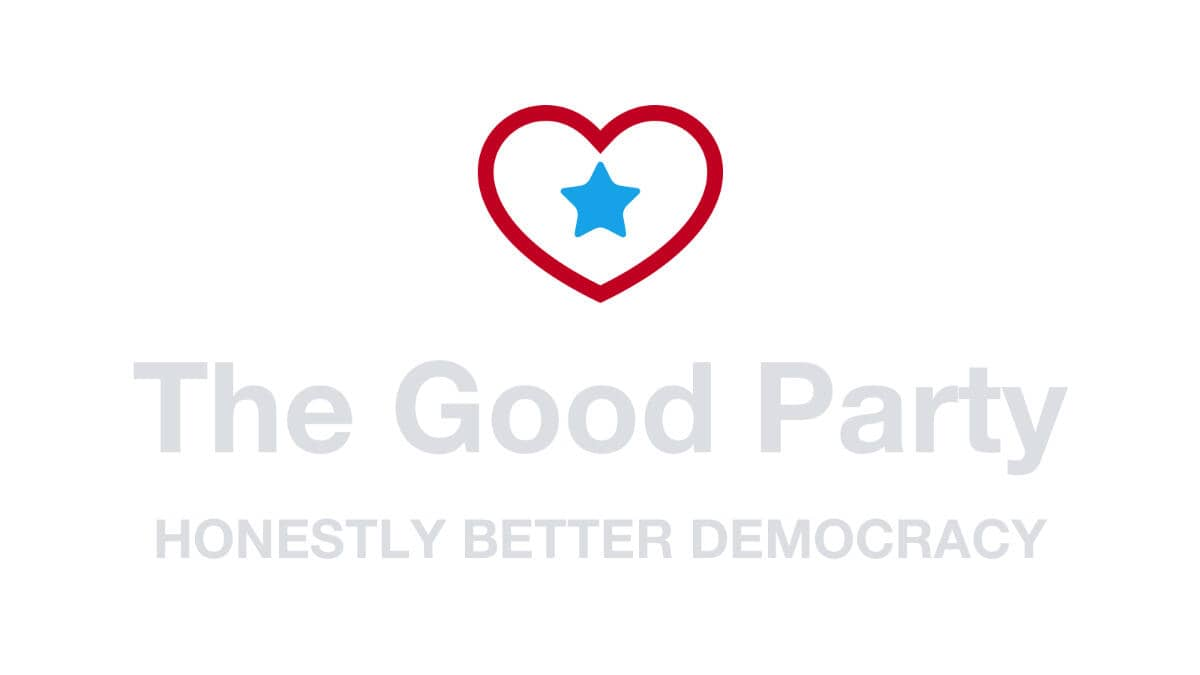
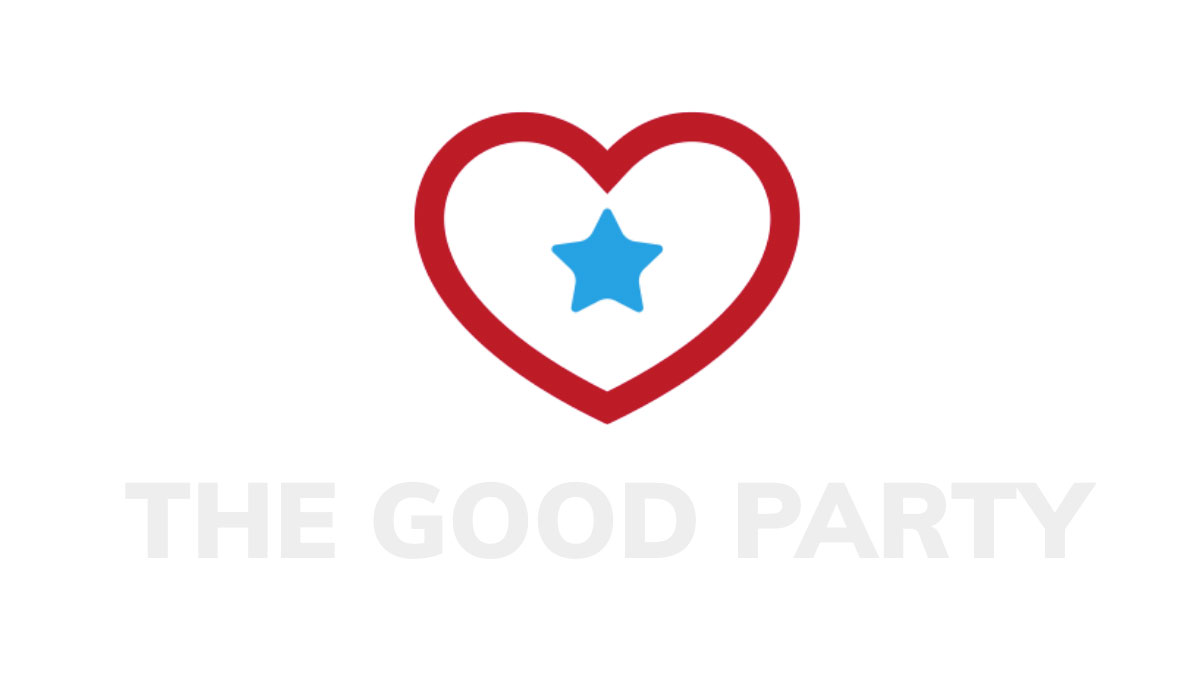
feat: 1.0.8.3 share image

diff --git a/app/index.html b/app/index.html
@@ -10,8 +10,8 @@
     <!-- Allow installing the app to the homescreen -->
     <meta name="mobile-web-app-capable" content="yes" />
 
-    <meta name="description" content="The Good Party" />
-    <meta property="og:site_name" content="The Good Party" />
+    <meta name="description" content="The Good Party is a way to take back our democracy from corrupt big-money politicians of both major parties, and to replace them with good capable indie or grass-roots candidates that wouldn't ordinarily have a chance." />
+    <meta property="og:site_name" content="THE GOOD PARTY" />
     <meta property="og:type" content="website" />
     <meta
       property="og:image"
@@ -22,7 +22,7 @@
     <meta name="theme-color" content="#ffffff" />
 
     <link rel="icon" href="/favicon.ico" />
-    <title>The Good Party</title>
+    <title>THE GOOD PARTY</title>
     <script>
       if(window.location.host === 'thegoodparty.org'){
         window['_fs_debug'] = false;
